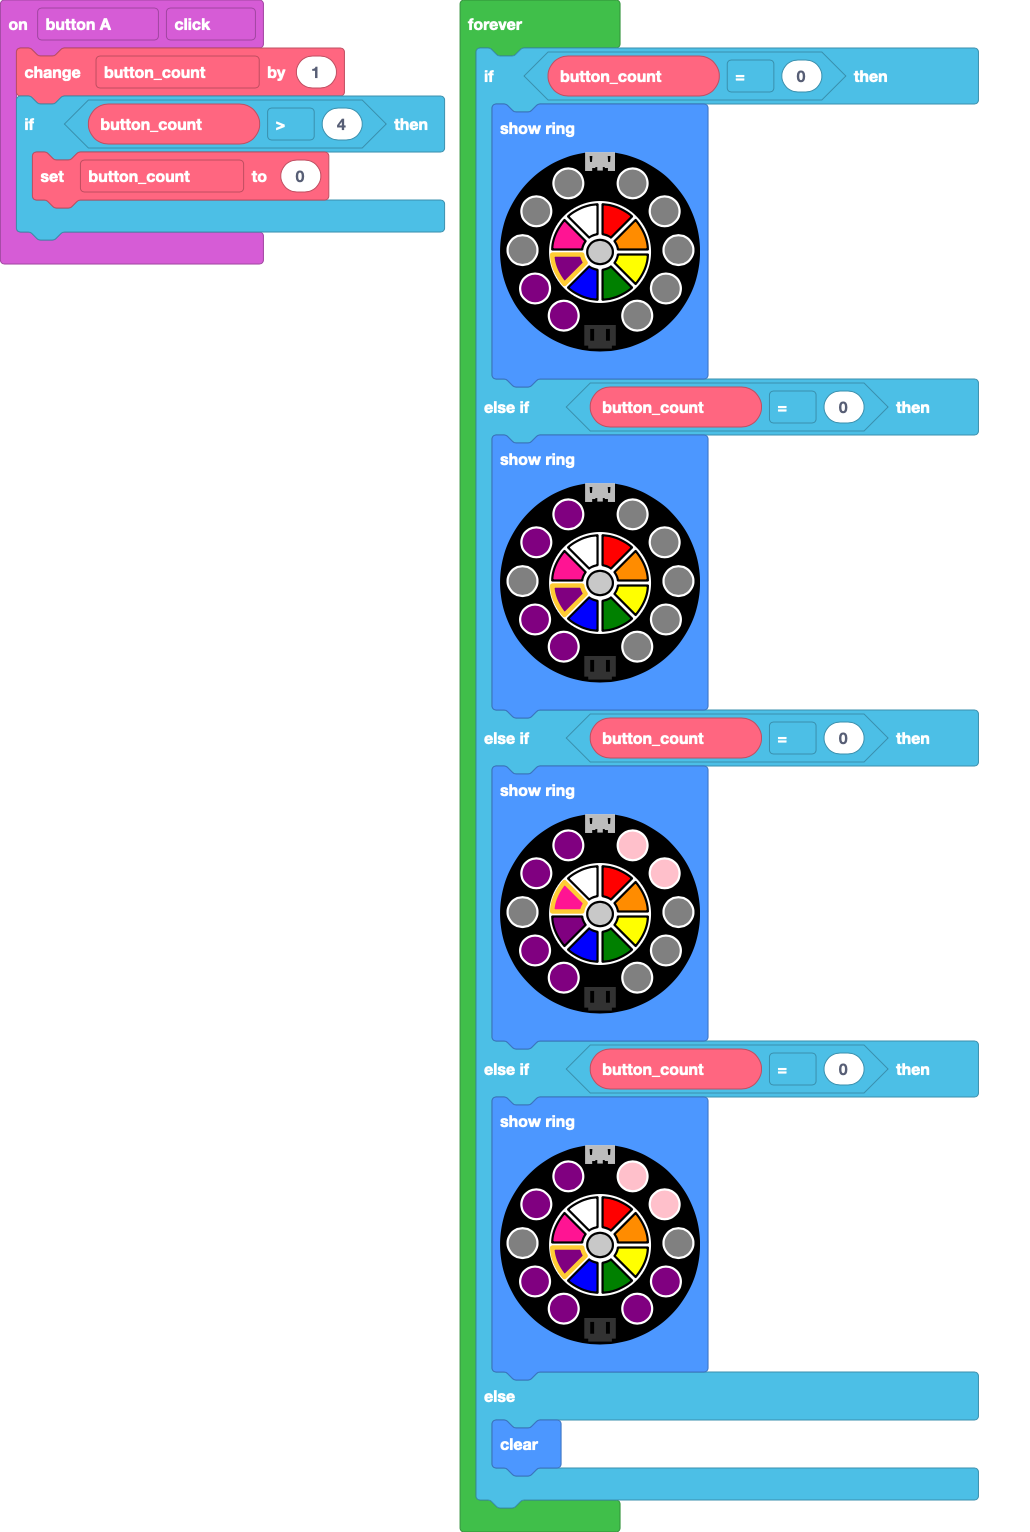
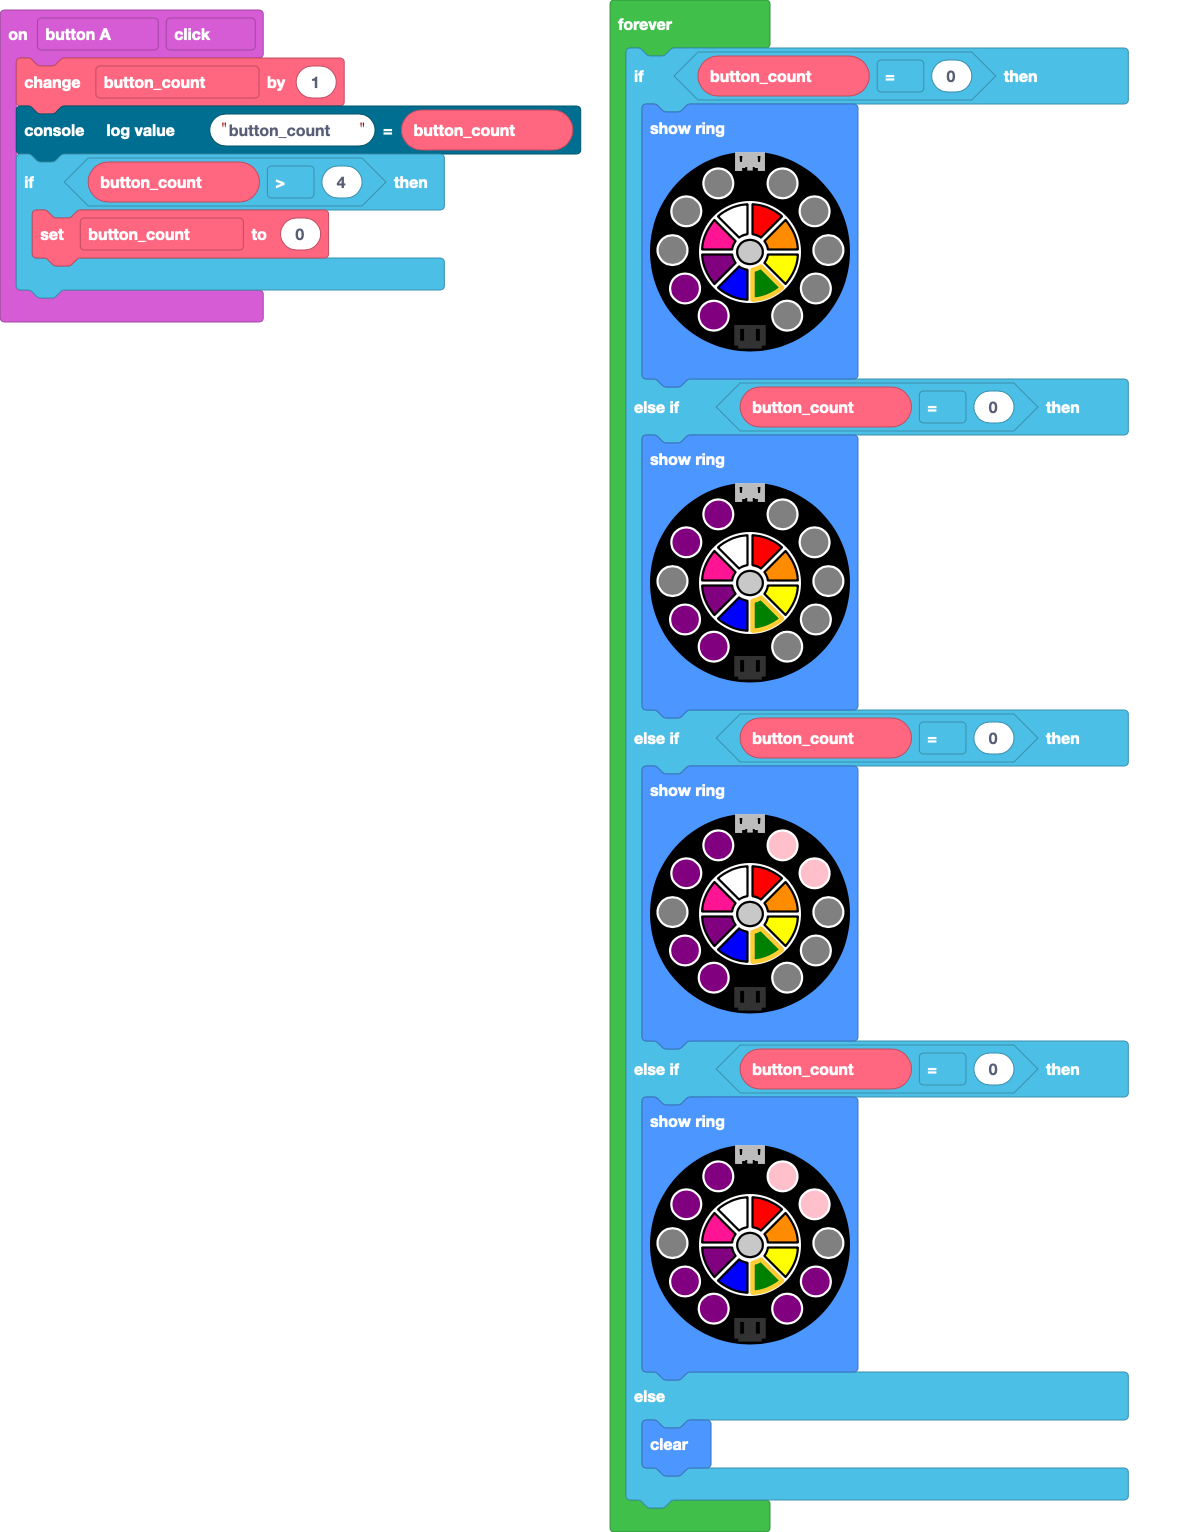
Testing diff.

diff --git a/main.ts b/main.ts
@@ -1,6 +1,7 @@
 let button_count = 0
 input.buttonA.onEvent(ButtonEvent.Click, function () {
     button_count += 1
+    console.logValue("button_count", button_count)
     if (button_count > 4) {
         button_count = 0
     }

diff --git a/README.md b/README.md
@@ -1,10 +1,10 @@
 # Advent
 ## Introduction
-
 ```template
 let button_count = 0
 input.buttonA.onEvent(ButtonEvent.Click, function () {
     button_count += 1
+    console.logValue("button_count", button_count)
     if (button_count > 4) {
         button_count = 0
     }
@@ -33,58 +33,84 @@ forever(function () {
 ```
 
 
-## Activity 1: Varaibles
-### Step
-Variables store information. They allow your program to
-remember something. In this activity we will create a
-varaible that will remember how many times button, "A"
-was pressed.
+## Step
+In our Blinky Blinky tutorial we learned about controlling
+the lights on our Circuit Playground. Then, in our
+Light Show tutorial we learned about varaiables and
+conditoinal statements. In this tutorial we will combine
+those concepts to create a simple Advent calendar.
 
-### Step
-Get a ``||input.on button A click||`` block from
-``||input.Input||`` and drag it to an empty spot in your
-workspace.
-```blocks
-input.buttonA.onEvent(ButtonEvent.Click, function () {
-})
-```
+## Step
+You've already learned alot about creating programs for your
+Circuit Playground by arranging the programming blocks. In
+this tutorial the code is already written. But, it does work.
+Let's fix it!
 
-### Step
-From ``||variables.Variables||`` click on "Make a Varible..."
-and name it, "button_count".  Now drag the
-``||variables.change button_count by 1||`` block inside of
-your, ``||input.on button A click||`` block.
-```blocks
-input.buttonA.onEvent(ButtonEvent.Click, function () {
-    button_count += 1
-})
-```
+## Step
+Advent is the season of prepartion for Christmas. Christmas
+is when we remember Jesus's birth nealry 2,000 and 20 years
+ago. There are four weeks of Advent. Each week has a color
+and a theme. 
+* Week 1: Hope (Purple)
+* Week 2: Faith (Purple)
+* Week 3: Joe (Pink)
+* Week 4: Peace (Purple)
 
-### Step
-Under ``||advanced.Advanced||`` open the 
-``||console.Console||`` group and drag
-``||console.console log value x = 0||`` to the bottom of
-your, ``||input.on buttonA click||``.
-```blocks
-input.buttonA.onEvent(ButtonEvent.Click, function () {
-    button_count += 1
-    console.logValue("x", 0)
-})
-```
+We want to use button A on our Circuit Playgroud to count the
+weeks of Advent. We want the lights on our Circuit Playground
+to show the colors for each week. But, if you use the
+simulator to the left you will see the colors don't change
+when we press button A. 
 
-### Step
-Go back to ``||variables.Variables||`` and drag 
-``||variables.button_count||`` on top of the "0" in
-``||console.console log value x = 0||``. Next change,
-"x" to, "button_count".
-```blocks
-input.buttonA.onEvent(ButtonEvent.Click, function () {
-    button_count += 1
-    console.logValue("button_count", button_count)
-})
-```
+## Step 
+For our program to remember how many times button A was pressed
+we need a variable. Our variable's name is 
+``||variables.button_count||``. Use the simulator and the,
+"Show console Simulator" button to check if
+``||variables.button_count||`` changes when you press button A.
 
-### Step
+## Step
+Using the simulator we confimed that our button and 
+``||variables.button_count||`` variable are working.  The next
+thing we need to check are our conditional statements. These
+are our "if" and "else if" statements. You can see a big block
+of "if" and "else if" statements in our program. Let's check them
+in the next step.
+
+## Step
+When the condition for an "if" or "else if" statement is true
+the code in side runs. For example, we could say, 
+* If the number of wheels equels 1, then we have a unicycle.
+* Else if the number of wheels equals 2, then we have a bicycle.
+* Else if the number of wheels equals 3, then we have a tricycle.
+* Else, then I don't know the name of the cycle.
+
+For our Advent Calendar we make a decision based on the how many
+times the button has been pressed (``||variables.button_count||``).
+
+* If ``||variables.button_count||`` = 1, then 1 purple light.
+* Else if ``||variables.button_count||`` = 2, then 2 purple lights.
+* Else if ``||variables.button_count||`` = 3, then 2 purple lights & 1 pink.
+* Else if ``||variables.button_count||`` = 4, then 3 purple lights & 1 pink.
+* Else, turn all lights off
+
+Take a couple of minutes to see if you can find the problem in our
+program.
+
+## Step
+All of the "if" and "else if" conditions in our program are set equal to 
+0. That isn't correct. Let's change the numbers to the correct Advent
+week number based on our example "if" and "else if" statments below.
+
+* If ``||variables.button_count||`` = 1, then 1 purple light.
+* Else if ``||variables.button_count||`` = 2, then 2 purple lights.
+* Else if ``||variables.button_count||`` = 3, then 2 purple lights & 1 pink.
+* Else if ``||variables.button_count||`` = 4, then 3 purple lights & 1 pink.
+* Else, turn all lights off
+
+
+## Finish
+### @diffs true
 Let's simulate! On the left is a picture of the Circuit
 Playground Express. Left of center is the, "A" button.
 The button is the black circle. The button label is a black
@@ -99,180 +125,34 @@ Now you should see a strip chart. Try clicking on the,
 You'll notice that each time you click on the button 
 the value of our button_count varaible goees up by 1.
 This is exactly what we setup our program to do!
-
-## Activity 2: Conditional Execution
-### Step
-Our last activity was about variables. Our variable's
-value increased each time we clicked the "A" button. But,
-the value never went down. In this activity we will
-add a condition that will set our varaible back to 0 once
-it reaches a specific value.
-
-### Step
-From ``||logic.Logic||`` drag a ``||logic.if true then||``
-block and place it after the console block in your program.
 ```blocks
+let button_count = 0
 input.buttonA.onEvent(ButtonEvent.Click, function () {
     button_count += 1
     console.logValue("button_count", button_count)
-    if (true) {
-    }
-})
-```
-
-### Step
-From ``||logic.Logic||`` drag a ``||logic.0 = 0||`` block
-on top of the, "true", in your "if" block. Notice how the
-shape of the, ``||logic.true||``, and the
-``||logic.0 = 0||`` are the same.
-```blocks
-input.buttonA.onEvent(ButtonEvent.Click, function () {
-    button_count += 1
-    console.logValue("button_count", button_count)
-    if (0 == 0) {
-    }
-})
-```
-
-### Step
-From ``||variables.Variables||`` drag your
-``||variables.button_count||`` block on top
-of the left "0" in the ``||logic.0 = 0||``. Next change the
-equal sign (=) to greater than (>). Finally change the zero
-on the right to 5.
-```blocks
-input.buttonA.onEvent(ButtonEvent.Click, function () {
-    button_count += 1
-    console.logValue("button_count", button_count)
-    if (button_count > 5) {
-    }
-})
-```
-### Step
-You are almost there. Last step before we simulate. From
-``||variables.Variables||`` drag a 
-``||variables.set button_count to 0||`` inside of your
-``||logic.if button_count > 5||``.
-```blocks
-input.buttonA.onEvent(ButtonEvent.Click, function () {
-    button_count += 1
-    console.logValue("button_count", button_count)
-    if (button_count > 5) {
+    if (button_count > 4) {
         button_count = 0
     }
 })
-```
-
-### Step
-Let's simulate! On the left is a picture of the Circuit
-Playground Express. Left of center is the, "A" button.
-The button is the black circle. The button label is a black
-"A" inside of a white triangle. Once you find the button,
-click on it one time.
-
-After you click once, "Show console Simulator", should
-appear. Click on, "Show console Simulator".
-
-Now you should see a strip chart. Try clicking on the,
-"A", button several times to see how the graph changes.
-You'll notice that each time you click on the button 
-the value of our button_count varaible goes up by 1.
-However, this time after clicking 6 times the value of our
-button_count variable is set back to 0.
-
-## Activity 3: Action Lights
-### Step
-Now that our program knows how to count let's control some
-lights (LEDs) with it.
-
-You have some experience with programming. So we can go 
-a little faster now. If you need help just click
-on the wise old owl to the left for a hint.
-
-We are also going to use the simulator a lot to check our
-progress. The simulator is always there to the left
-anytime you want to see what your program does. And, don't
-forget about slow-mo mode (snail) to see just which block
-of your program is running.
-
-### Step
-From ``||logic.Logic||`` drag a ``||logic.if true then||``
-inside of the ``||loops.forever||`` block that is aready
-in your work space. From ``||logic.Logic||`` drag a
-``||logic.0 = 0||`` block on top of the, "true" of your
-if block. Next reaplce the left 0 with 
-``||variables.button_count||``. Finally change the right
-0 to 1.
-```blocks
-forever(function () {
-    if (button_count == 1) {
-    }
-})
-```
-### Step
-From ``||light.Light||`` drag a ``||light.showRing()||``
-inside of your if block.
-
-```blocks
 forever(function () {
     if (button_count == 1) {
         light.showRing(
-        `black black black pink pink black black black black black`
-        )
-    }
-})
-```
-
-### Step
-Click on the + sign at the bottom of your if block once.
-Put a ``||logic.0 = 0||`` in the new "else if" statement.
-Then replace the left 0 with ``||variables.button_count||``.
-Replace all of the 0 with 2.
-```blocks
-forever(function () {
-    if (button_count == 1) {
-        light.showRing(
-        `black black black pink pink black black black black black`
-        )
-    } else if (button_count == 2) {
-    } else {
-    }
-})
-```
-### Step
-Drag a ``||light.showRing()||`` in to all of the "else if"
-blocks but not the else.
-
-```blocks
-forever(function () {
-    if (button_count == 1) {
-        light.showRing(
-        `black black black pink pink black black black black black`
+        `black black black purple purple black black black black black`
         )
     } else if (button_count == 2) {
         light.showRing(
-        `pink pink black pink pink black black black black black`
+        `purple purple black purple purple black black black black black`
         )
-    } else {
-    }
-})
-```
-### Step
-Drag a ``||light.clear||`` into the "else" block.
-```blocks
-forever(function () {
-    if (button_count == 1) {
+    } else if (button_count == 3) {
         light.showRing(
-        `black black black pink pink black black black black black`
+        `purple purple black purple purple black black black pink pink`
         )
-    } else if (button_count == 2) {
+    } else if (button_count == 4) {
         light.showRing(
-        `pink pink black blue blue black black black black black`
+        `purple purple black purple purple purple purple black pink pink`
         )
     } else {
         light.clear()
     }
 })
 ```
-
-## Finish
